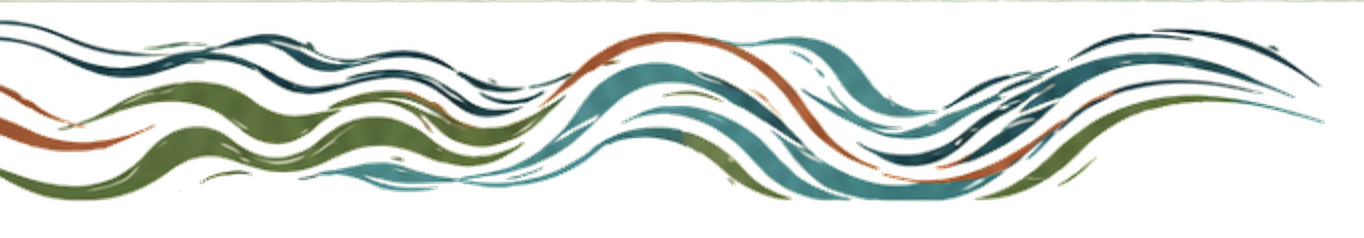
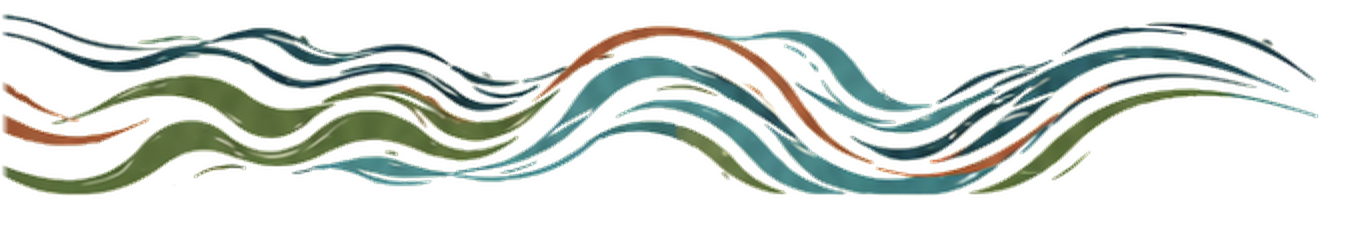
Wave art: clean the image edges
Trim the crop boundary and fade alpha at the borders so no faint frame
line shows against the parchment background.

diff --git a/index.html b/index.html
@@ -79,7 +79,7 @@
   <!-- ===================== STATEMENT + WAVES ===================== -->
   <section id="about" class="statement">
     <div class="statement__inner">
-      <img class="wave" src="assets/brand/wave.png?v=4" alt="" width="1364" height="238">
+      <img class="wave" src="assets/brand/wave.png?v=5" alt="" width="1352" height="226">
       <p class="statement__text">Like the wai that moves from mauka to makai, we believe in an economy where resources circulate, nourish, and return — strengthening our communities for generations to come.</p>
     </div>
   </section>
